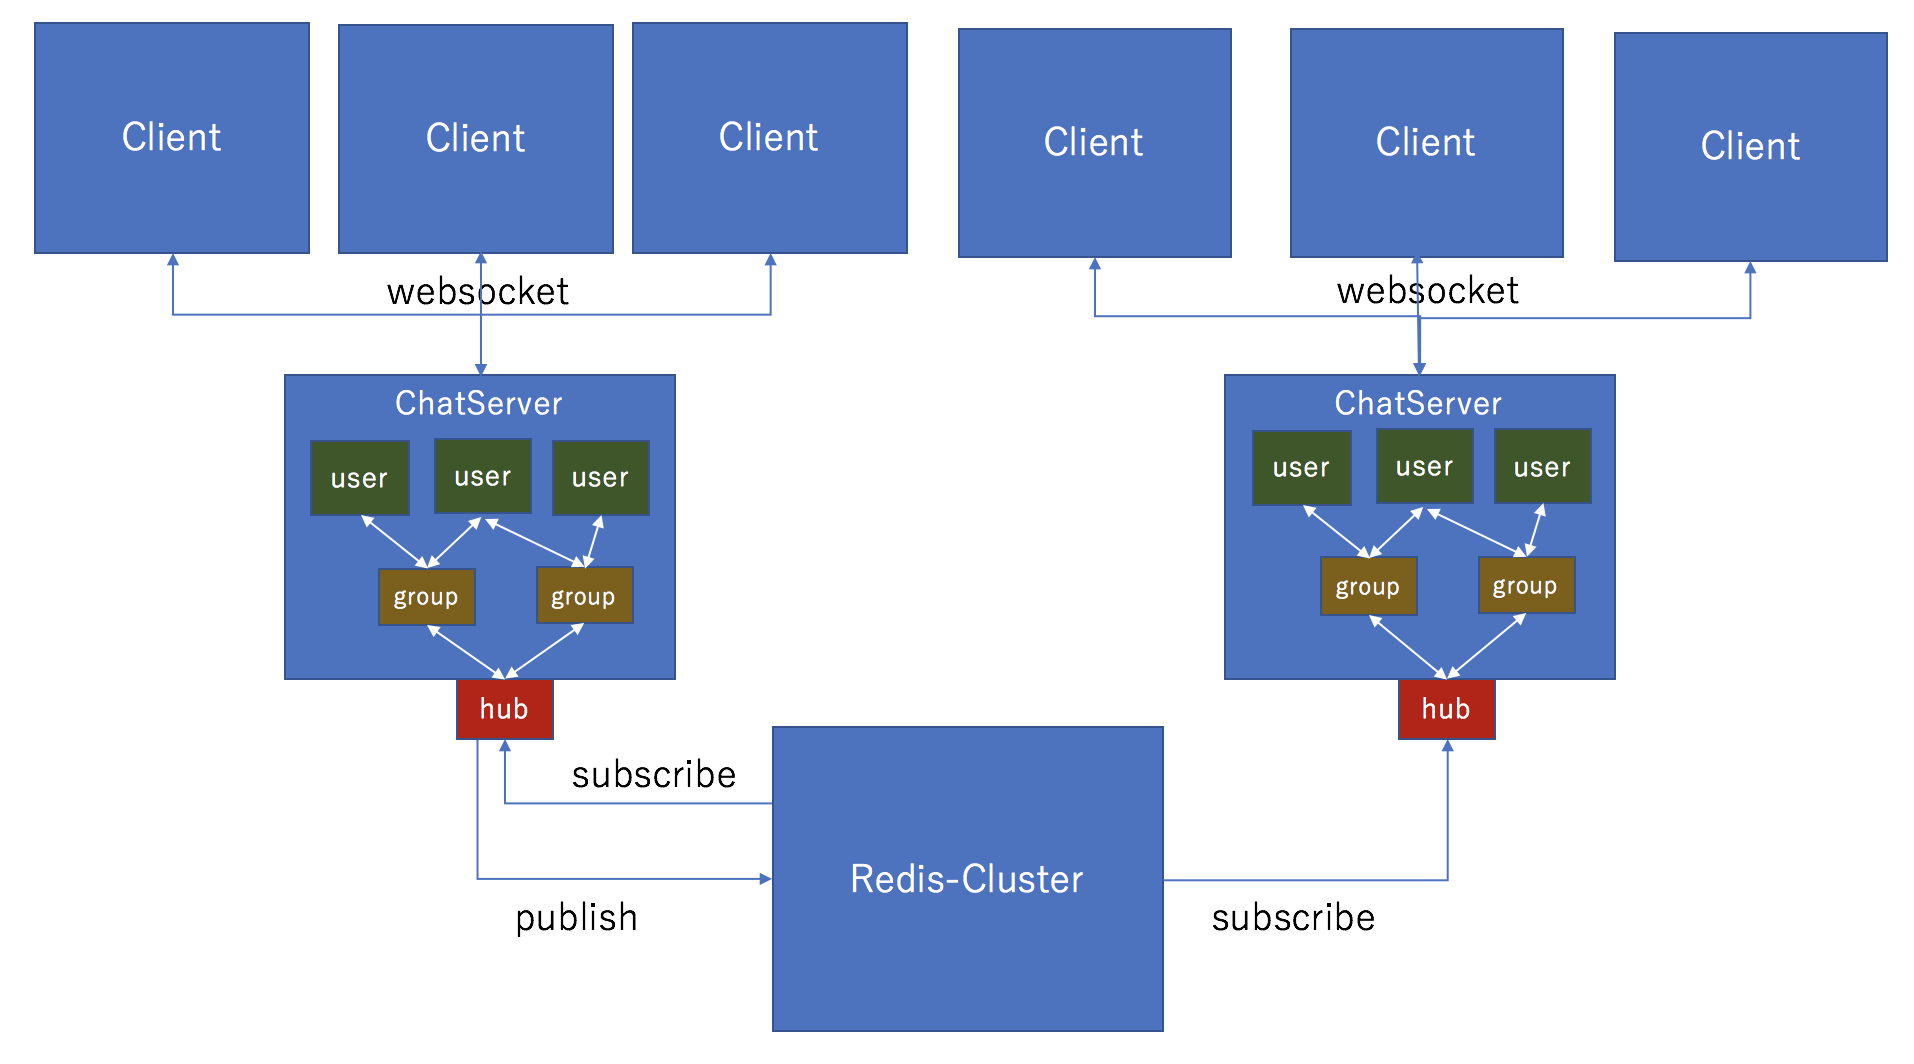
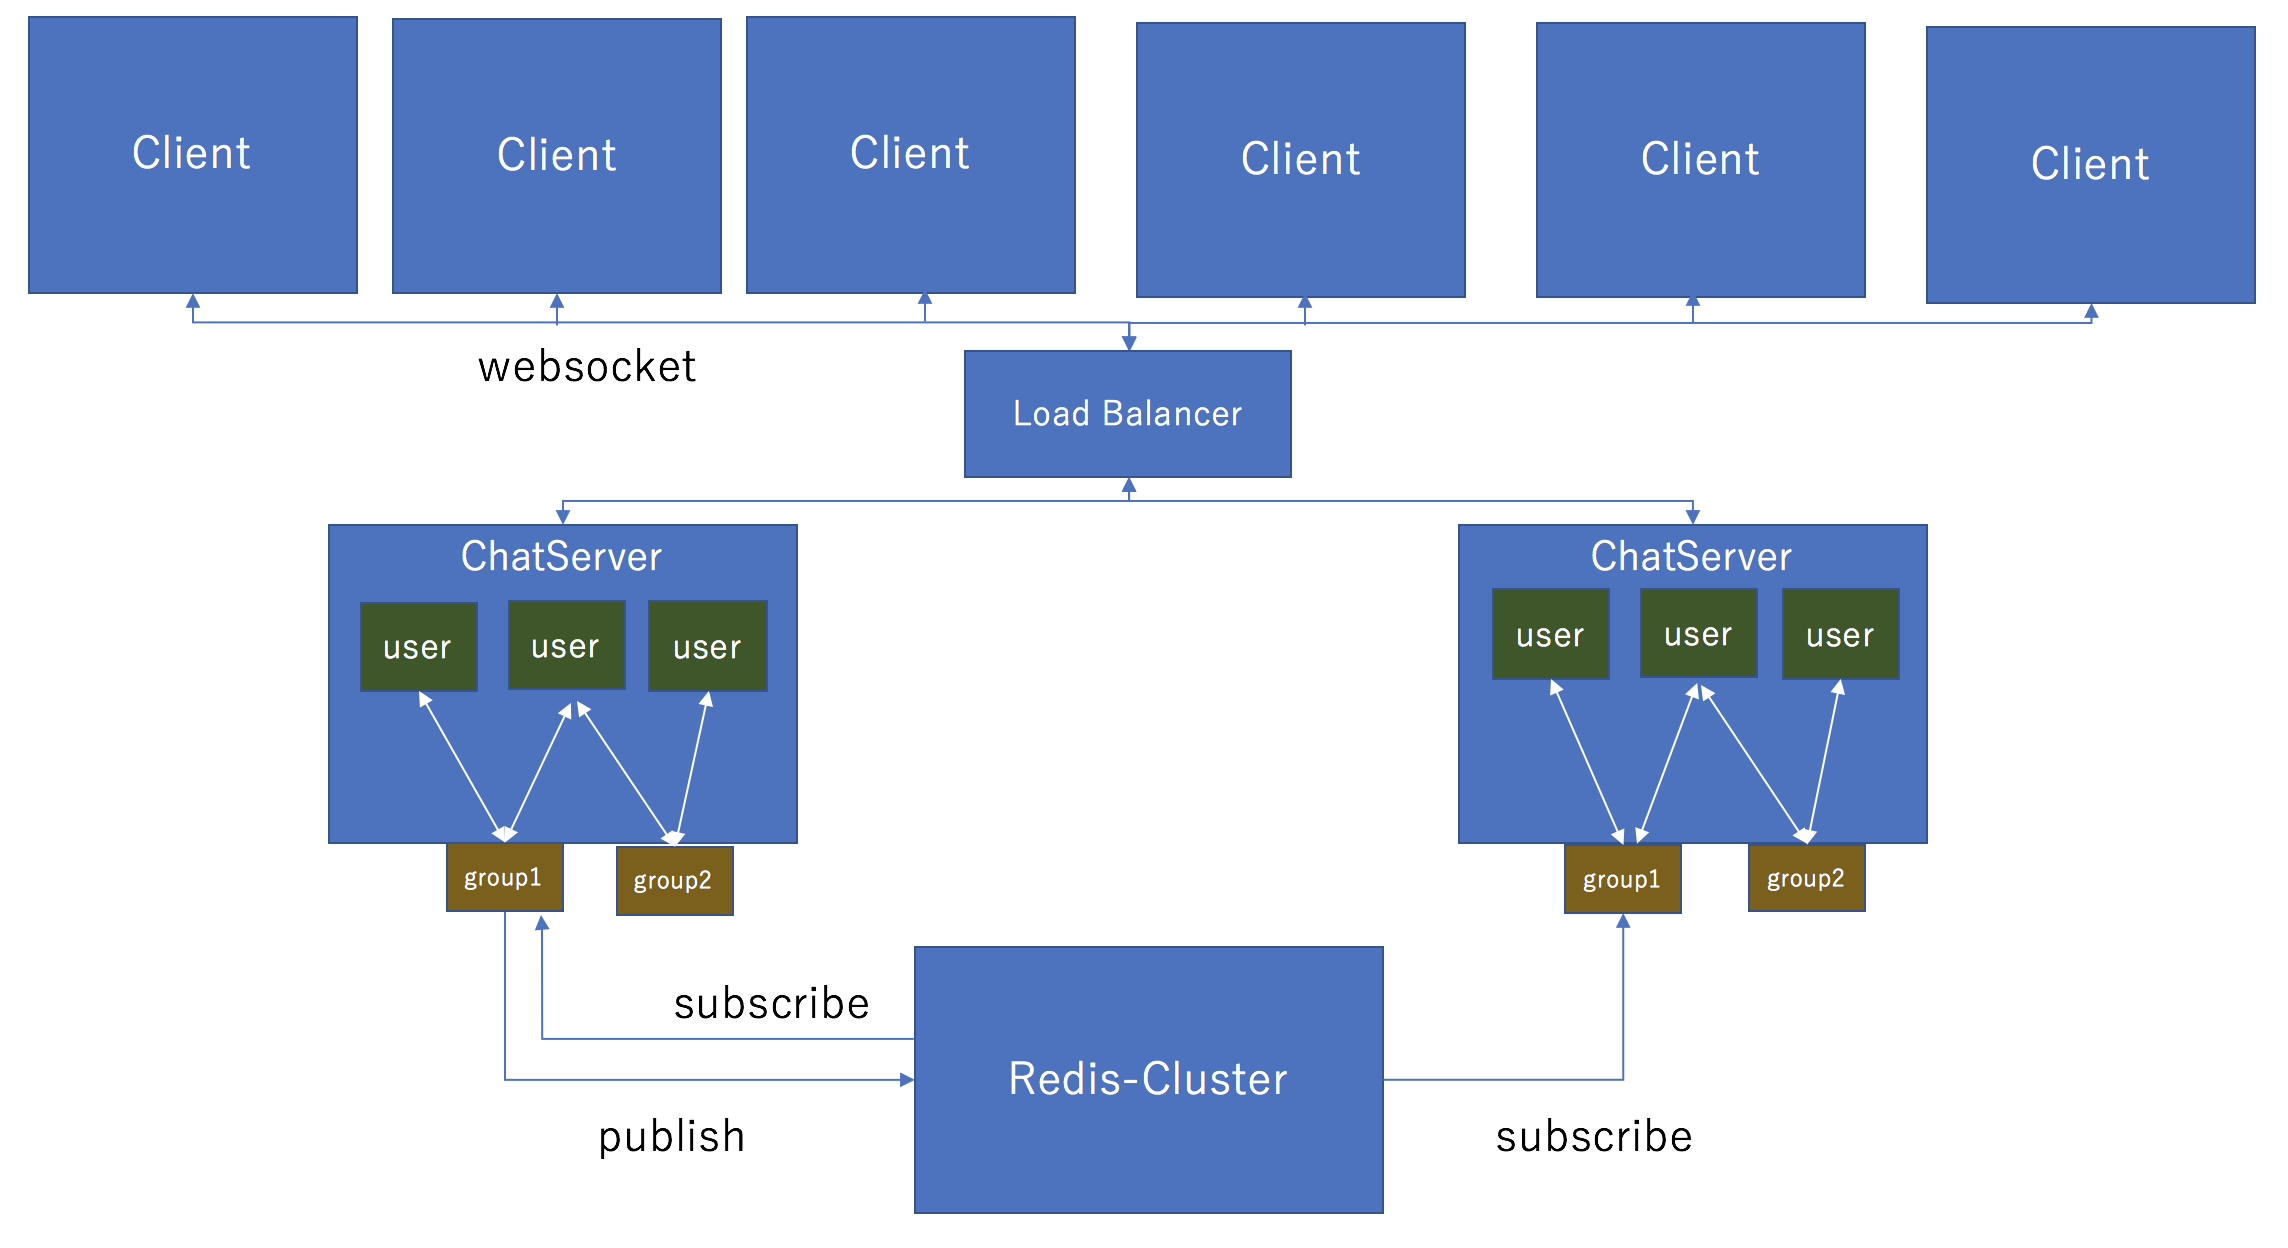
update description

diff --git a/README.md b/README.md
@@ -1,7 +1,8 @@
 # GWRPSChat
-A ChatServer made by **G**o,**W**ebSocket,**R**edis **p**ub/**s**ub  
+A ChatServer made by **G**o,**W**ebSocket,**R**edis **p**ub/**s**ub.   
 
 ## Structure
+Load Balancer is not included in this project,maybe you can use nginx or ELB(AWS).   
 
 ![Structure picture](structure.png)
 
